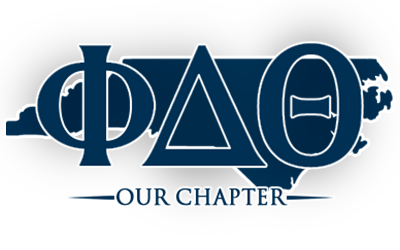
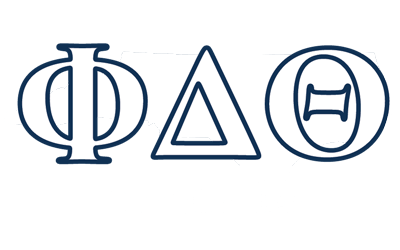
Added Correct images for chapter page

diff --git a/themes/pdt-nce/partials/chapter/section-one.htm b/themes/pdt-nce/partials/chapter/section-one.htm
@@ -5,7 +5,7 @@
     <div class="container chapter-width"> 
       <!--Creates a Container for middle section on section-->
       <div class="row chapter-one-padding">
-        <div class="col-lg-6 col-lg-offset-3 col-md-6 col-md-offset-3 "> <img class ="img-responsive center-block" src="{{'assets/images/chapter/chapter-header-2.png' | theme}}"/> </div>
+        <div class="col-lg-6 col-lg-offset-3 col-md-6 col-md-offset-3 "> <img class ="img-responsive center-block" src="{{'assets/images/chapter/chapter-header.png' | theme}}"/> </div>
       </div>
     </div>
   </section>
